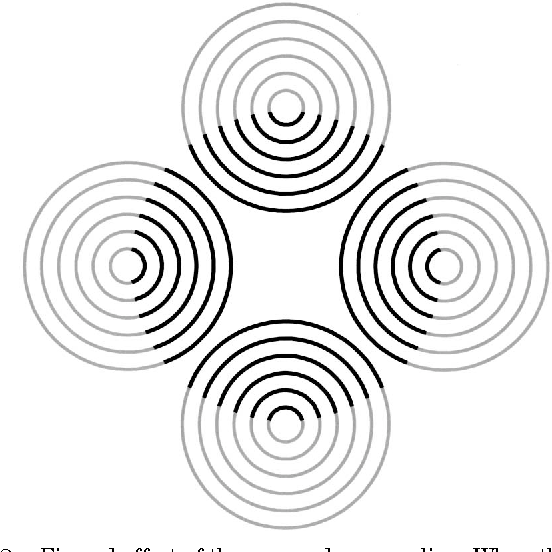
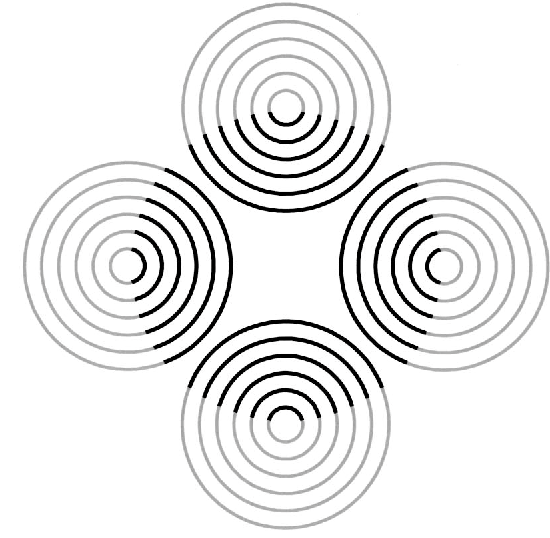
Images of run with small circles

diff --git a/ImageUtils.py b/ImageUtils.py
@@ -27,15 +27,15 @@ def preprocess(input_image):
 
 
 def draw_contours(img, contours, is_gray):
-    if is_gray:
-        img = skimage.color.rgb2gray(img)
-    if is_gray or len(img.shape) == 2 or img.shape[2] == 1:
-        return img - contours
+    # if is_gray:
+    #     img = skimage.color.rgb2gray(img)
     contours = skimage.img_as_ubyte(normalize(contours))
-    contours, hier = cv2.findContours(contours, cv2.RETR_TREE, cv2.CHAIN_APPROX_SIMPLE)
+    kernel = np.ones((2,2), np.uint8)
+    dilated_img = cv2.dilate(contours, kernel, iterations=DILATION_ITERATIONS)
+    contours, hier = cv2.findContours(dilated_img, cv2.RETR_TREE, cv2.CHAIN_APPROX_SIMPLE)
     real_contours = []
     for c in contours:
-        if cv2.contourArea(c) > 2 * np.sqrt(img.shape[0] * img.shape[1]):
+        if cv2.contourArea(c) > 100:
             x, y, w, h = cv2.boundingRect(c)
             cropped_area = img[y:y + h, x:x + w, :]
             hue = find_contour_hue(cropped_area)
@@ -46,12 +46,7 @@ def draw_contours(img, contours, is_gray):
         hue = (int(hue[0]), int(hue[1]), int(hue[2]))
         cv2.drawContours(image=white, contours=[cnt], contourIdx=-1,
                          color=hue,
-                         thickness=2, lineType=cv2.LINE_AA)
-
-        # hue = colorsys.rgb_to_hls(hue[0], hue[1], hue[2])
-        # hue = (hue[0], 250, hue[2])
-        # hue = colorsys.hls_to_rgb(hue[0], hue[1], hue[2])
-        # cv2.fillConvexPoly(white, cnt, color=(int(hue[0]), int(hue[1]), int(hue[2])))
+                         thickness=DRAW_THICKNESS, lineType=cv2.LINE_AA)
     return white, real_contours
 
 
@@ -68,7 +63,7 @@ def find_contour_hue(img):
     colorfulness_img = rg ** 2 + yb ** 2
     pix_argmax = np.argmax(colorfulness_img)
     max_color_index = np.unravel_index(pix_argmax, colorfulness_img.shape)
-    hue = img[max_color_index[1]][max_color_index[0]]
+    hue = img[max_color_index[0]][max_color_index[1]]
     return hue
 
 

diff --git a/Diffusion.py b/Diffusion.py
@@ -1,38 +1,21 @@
-from skimage.draw import line
+import colorsys
 
 from ImageUtils import *
 
 
-def get_central_point(hull_points):
-    x_list = [vertex[0] for vertex in hull_points]
-    y_list = [vertex[1] for vertex in hull_points]
-    length = len(hull_points)
-    x = sum(x_list) / length
-    y = sum(y_list) / length
-    return np.array([[int(y), int(x)]])
-
-
-def get_line(point, central_point):
-    # being start and end two point (x1,y1), (x2,y2)
-    discrete_line = np.array(list(zip(*line(*(point[0][1], point[0][0]), *(central_point[0][1], central_point[0][0])))))
-
-    return discrete_line
-
-
-def draw_diffusion_line(white_img, line, hue_at_edge, starting_point):
-    pass
+def get_fill_hue(hue):
+    r, g, b = [x / 255.0 for x in hue]
+    h, l, s = colorsys.rgb_to_hls(r, g, b)
+    l = 1 - l * 0.15
+    rgb_hue = colorsys.hls_to_rgb(h, l, s)
+    hue_after = [int(x * 255.0) for x in rgb_hue]
+    return hue_after
 
 
 def diffusion(img, contours):
     white = skimage.img_as_ubyte(np.ones(img.shape))
-    for cnt, hue in contours:
+    for cnt, line_hue in contours:
         if cv2.contourArea(cnt) > np.sqrt(img.shape[0] * img.shape[1]):
-            convex_hull = cv2.convexHull(cnt)
-            mask = np.zeros(img.shape, np.uint8)
-            cv2.drawContours(mask, [convex_hull], 0, 255, -1)
-            pixel_points = np.transpose(np.nonzero(mask))
-            central_point = get_central_point(pixel_points)
-            for point in convex_hull:
-                line = get_line(point, central_point)
-                draw_diffusion_line(white, line, hue, point)
+            hue = get_fill_hue(line_hue)
+            cv2.fillPoly(white, [cnt], color=hue)
     return white

diff --git a/main.py b/main.py
@@ -46,12 +46,18 @@ if SAVE:
 #     threshold_guesses_sum = skimage.img_as_ubyte(skimage.color.gray2rgb(threshold_guesses_sum))
 orig_final = skimage.img_as_ubyte(orig)
 line_completion, contours = draw_contours(orig_final, threshold_guesses_sum, IS_GRAY)
-
-diffusion = diffusion(orig_final, contours)
-
 if SAVE:
     filename = 'Results/finalLineCompletion.jpg'
     skimage.io.imsave(filename, line_completion)
+
+diffusion = diffusion(orig_final, contours)
+dst = cv2.addWeighted(orig_final, 0.5, diffusion, 0.5, 0)
+
+if SAVE:
+    filename = 'Results/diffusionOnly.jpg'
+    skimage.io.imsave(filename, diffusion)
+    filename = 'Results/finalDiffusion.jpg'
+    skimage.io.imsave(filename, dst)
 
 # plt.subplot(133)
 # plt.title("Line filling algorithm result")

diff --git a/Params.py b/Params.py
@@ -1,17 +1,18 @@
 # Main params
-image_path = 'Images/SaturationTest.jpg'
+image_path = 'Images/neon_31.png'
 
 # False Contour Params
-CONTOUR_AREA_THRESH = 200
+CONTOUR_AREA_THRESH = 500
 DILATION_ITERATIONS = 3
-DILATION_KERNEL_SIZE = (5, 5)
+DILATION_KERNEL_SIZE = (3, 3)
 GABOR_KERNEL_SIZE = (5, 5)
-GAUSS_SIZE = 100
-GUESSES_THRESHOLD = 30
+GAUSS_SIZE = 25
+GUESSES_THRESHOLD = 60
 GAUSSIAN_PARAMS_BOX_SIZE = 5
-POST_GABOR_THRESHOLD = 127
-THETAS_STEP = 10
+POST_GABOR_THRESHOLD = 170
+THETAS_STEP = 30
 PAD_SIZE = 300
+DRAW_THICKNESS = 1
 IS_GRAY = False
 SAVE = True
 SAVE_ONCE = True
